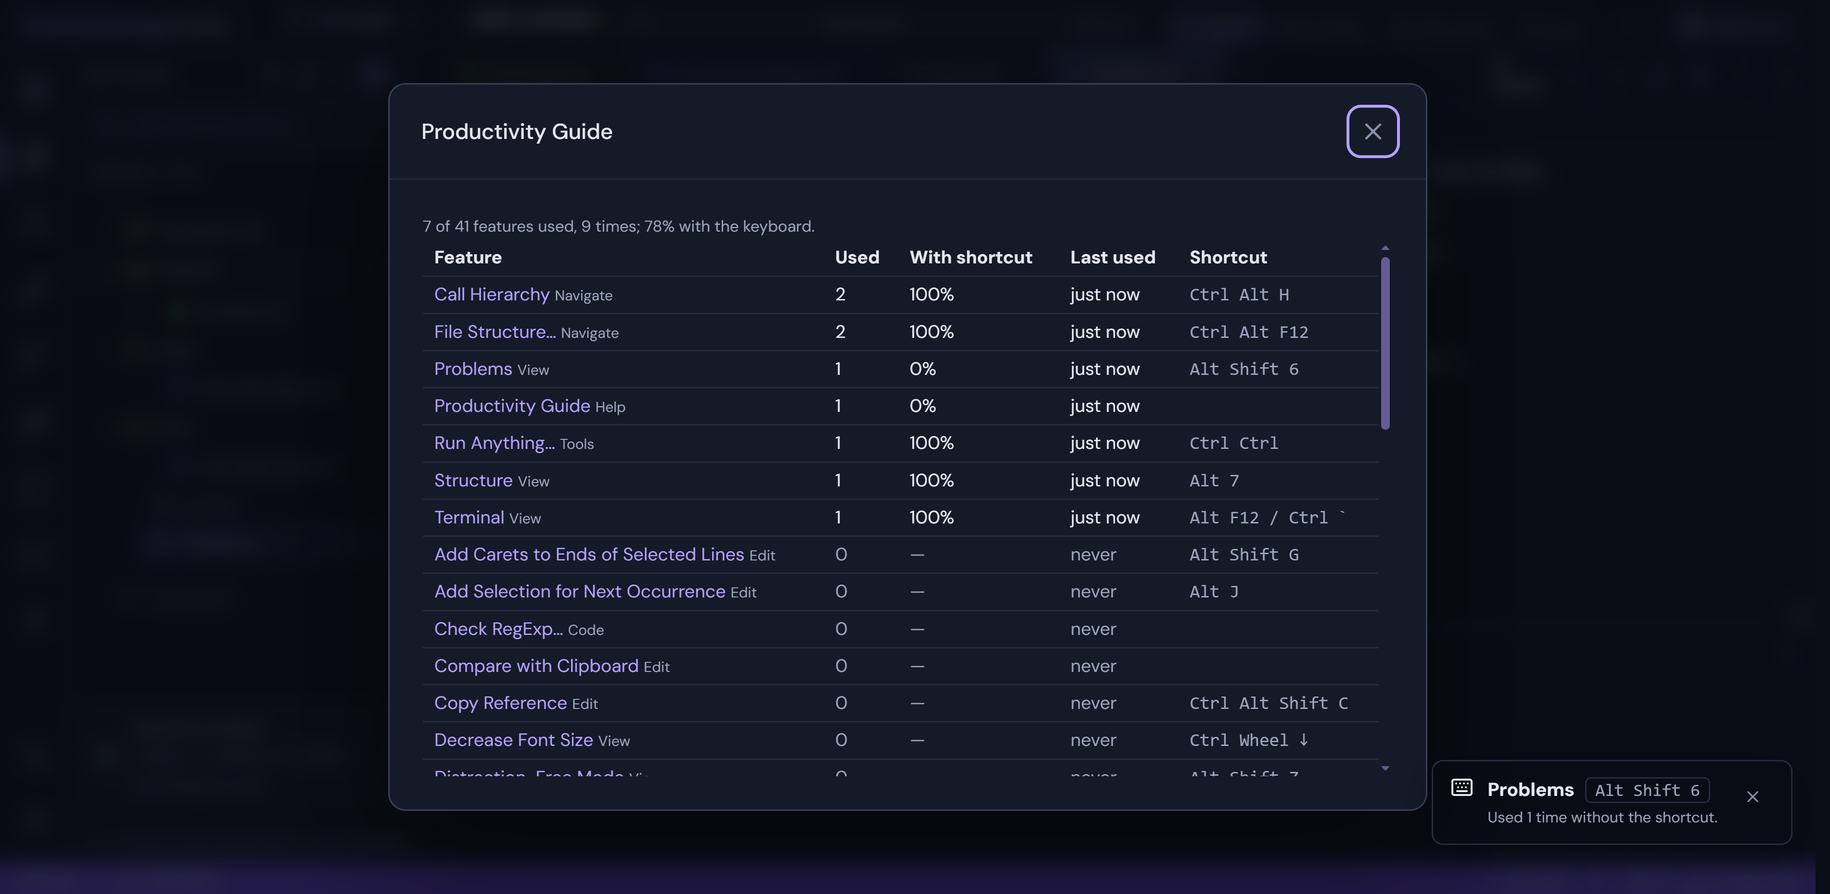
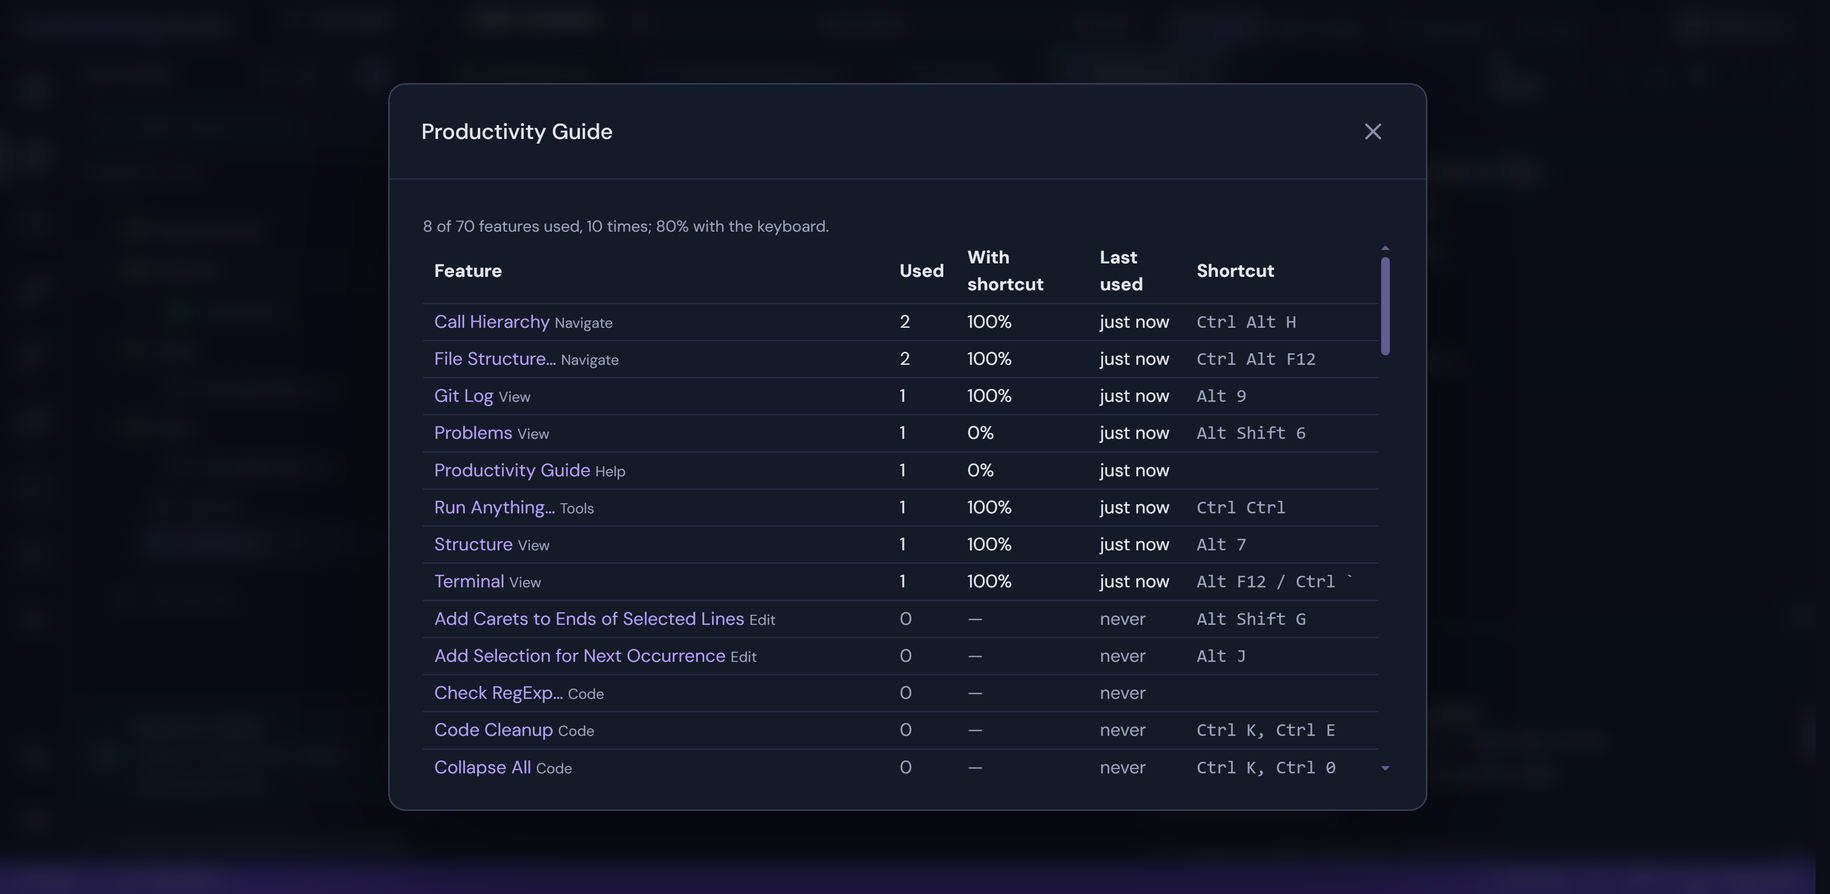
docs: add 60 desktop QoL proposals and refresh Electron screenshots

diff --git a/DESKTOP-QOL.md b/DESKTOP-QOL.md
@@ -1,0 +1,154 @@
+# Desktop quality-of-life improvement backlog
+
+Reviewed 2026-10-18 against source revision `f61994c`. These **60 proposals are not implemented by this document**. Priorities are recommendations: P1 protects work or removes recurring friction; P2 improves everyday workflows; P3 is optional polish. Each row defines a user outcome and a checkable completion condition. Source references identify the implementation area, not proof that every proposed interaction has been exhaustively tested.
+
+## How the app works
+
+The Windows Electron shell serves the shared React studio and runs its Express API inside the main process. The preload exposes a restricted desktop bridge. Self-contained Roslyn helpers provide scanning and language services; netcoredbg provides debugging. Running a user's tests still requires a compatible .NET SDK. Workspace settings and desktop state live in the OS user-data directory.
+
+The shell owns native menus, windows, tray integration, recent repositories, notifications, deep links, browser installation and diagnostics. Authoring, test discovery, recording, Spy, Git and terminal panels are shared with the web app. Shared UI improvements should therefore remain available in both hosts; Windows integration belongs in the desktop shell.
+
+Already present: persisted window bounds and zoom, recent/pinned repositories, last-page restoration, auto-rescan, background notifications and Do Not Disturb, startup retry, crash dialogs, settings import/export, autosave and recovery drafts, test playlists and Run Failed, terminal tabs, and extensive Rider-style navigation. This backlog extends these capabilities rather than treating them as missing. See [the existing desktop plan](test-authoring-desktop/PLAN.md), [completed workflow work](QOL-PROGRESS.md) and [Rider features](RIDER.md).
+
+## 1. Startup and prerequisites
+
+Source: [startup](test-authoring-desktop/src/main/main.ts), [browser installation](test-authoring-desktop/src/main/browsers.ts), [diagnostics](test-authoring-desktop/src/main/diagnostics.ts).
+
+| ID | Priority | Improvement and user benefit | Acceptance criterion |
+| --- | --- | --- | --- |
+| DQ01 | P1 | Add a prerequisite checklist before the first test run: distinguish bundled scanning tools from the SDK required to execute tests. | A machine without an SDK can index a repository; Run explains the missing SDK with a recheck action before starting a doomed run. |
+| DQ02 | P2 | Show elapsed time and the active project during startup/indexing, extending the existing stage labels. | A long scan displays its current stage and elapsed time without inventing a percentage. |
+| DQ03 | P1 | Offer a recovery launch that skips reopening the last workspace. | A broken or unavailable saved repository can be bypassed to reach the Start Window without editing configuration files. |
+| DQ04 | P2 | Give Chromium installation an in-app progress panel with cancellation and retry. | Users can inspect download output, cancel the child process and retry from the same panel. |
+| DQ05 | P2 | Show the expected browser version, cache location and usable installation state. | A missing executable is distinguished from a usable install, and the displayed cache folder can be opened. |
+| DQ06 | P2 | Explain startup failures with a concise diagnosis and expandable technical details. | Port, permission and missing-resource failures each offer a relevant next action while retaining Copy details and Open log. |
+
+## 2. Workspace switching and recents
+
+Source: [workspace handling](test-authoring-desktop/src/main/workspace.ts), [desktop store](test-authoring-desktop/src/main/store.ts), [Start Window](test-authoring-studio/src/StartWindow.tsx).
+
+| ID | Priority | Improvement and user benefit | Acceptance criterion |
+| --- | --- | --- | --- |
+| DQ07 | P1 | Unify the Start Window and native menu recent lists. | Opening, pinning or removing a solution in one surface immediately updates the other after restart as well. |
+| DQ08 | P2 | Keep unavailable recent locations visible with Locate and Remove actions. | A disconnected drive does not silently hide its entry; locating a moved repository updates that entry. |
+| DQ09 | P2 | Add optional workspace nicknames and show the full path on demand. | Two repositories with the same folder name can be distinguished in recents and the title. |
+| DQ10 | P1 | Offer Save All, Keep Drafts and Cancel before switching repositories. | Switching with dirty buffers preserves them or saves them successfully before changing the active workspace. |
+| DQ11 | P2 | Make multi-window workspace sharing explicit. | A second window identifies the shared workspace, and a repository switch updates all window titles and content consistently. |
+| DQ12 | P2 | Scope restored pages to the selected solution as well as its directory. | Two solution files in one directory each restore their own last page. |
+
+## 3. Drafts and safe recovery
+
+Source: [autosave and draft keys](test-authoring-studio/src/editor/autosave.ts), [window lifecycle](test-authoring-desktop/src/main/main.ts), [settings reset and restart](test-authoring-desktop/src/main/settingsIO.ts).
+
+| ID | Priority | Improvement and user benefit | Acceptance criterion |
+| --- | --- | --- | --- |
+| DQ13 | P1 | Include workspace identity in draft and session-edit keys, which currently use the file string. | Editing the same relative file path in two repositories never offers the other repository's draft. |
+| DQ14 | P1 | Add a recovery inbox listing all retained drafts. | After a crash, users can preview, restore, export or discard each draft without reopening files one by one. |
+| DQ15 | P1 | Make draft-storage failures visible. | Simulated full or blocked storage produces a persistent recovery warning and an Export buffer action instead of silently losing the safety copy. |
+| DQ16 | P1 | Provide a three-way merge for external save conflicts. | Users can compare the loaded base, disk version and current buffer, resolve changes and save using the latest disk hash. |
+| DQ17 | P1 | Route Restart through the same save and active-task checks as normal quit. | Restart from settings cannot bypass a dirty-buffer decision or abandon a recording without a clear choice. |
+| DQ18 | P1 | Offer draft export before clearing web data. | The clear-data dialog shows the number of affected drafts and lets users export them before confirming removal. |
+
+## 4. Settings that are easier to move and trust
+
+Source: [settings import/export](test-authoring-desktop/src/main/settingsIO.ts), [JSON store](test-authoring-desktop/src/main/store.ts), [native preferences menu](test-authoring-desktop/src/main/menu.ts).
+
+| ID | Priority | Improvement and user benefit | Acceptance criterion |
+| --- | --- | --- | --- |
+| DQ19 | P1 | Validate imported setting types and format versions before applying them. | Unsupported versions and invalid values produce readable field errors and leave the current settings intact. |
+| DQ20 | P2 | Preview an import and choose desktop, studio and workspace sections separately. | Users can import appearance preferences without replacing their current repository configuration. |
+| DQ21 | P1 | Back up settings before import/reset and offer one-step restoration. | A failed or regretted import can restore the previous valid configuration after restart. |
+| DQ22 | P1 | Save desktop state atomically with a last-known-good fallback. | An interrupted write does not turn a valid preferences file into an empty configuration on the next launch. |
+| DQ23 | P2 | Offer a portable export that omits machine-specific paths and recents. | The export preview names the omitted fields and can be used on another computer without referencing the original user's folders. |
+| DQ24 | P2 | Add searchable desktop preferences with restart-required badges. | Searching for hardware acceleration, tray or notifications reveals the setting and whether its change has taken effect. |
+
+## 5. Background work and notifications
+
+Source: [status polling](test-authoring-desktop/src/main/status.ts), [notifications](test-authoring-desktop/src/main/notify.ts), [browser install notifications](test-authoring-desktop/src/main/browsers.ts), [watcher](test-authoring-desktop/src/main/watcher.ts).
+
+| ID | Priority | Improvement and user benefit | Acceptance criterion |
+| --- | --- | --- | --- |
+| DQ25 | P2 | Add an in-app notification history for messages missed while away. | Completion and failure messages remain reviewable with timestamps and their original destination. |
+| DQ26 | P2 | Support notification preferences by event type and temporary snooze. | Users can suppress successful runs for an hour while retaining failure notifications, then automatically restore their preferences. |
+| DQ27 | P1 | Route browser-install notifications through the shared Do Not Disturb policy. | Installing Chromium with Do Not Disturb enabled creates no OS notification but retains an in-app result. |
+| DQ28 | P2 | Link test completion notifications directly to the corresponding run. | Clicking an older notification opens that run's results rather than merely focusing whichever page is active. |
+| DQ29 | P1 | Bound status requests and prevent overlapping polling. | An unresponsive API creates one offline transition and no accumulating requests; recovery clears the stale state. |
+| DQ30 | P2 | Coordinate taskbar progress across simultaneous work. | A browser download finishing does not erase the progress of an ongoing scan or test run; the selected task is named in-app. |
+
+## 6. Indexing and resource use
+
+Source: [repository watcher](test-authoring-desktop/src/main/watcher.ts), [startup/workspace scan](test-authoring-desktop/src/main/workspace.ts), [diagnostics](test-authoring-desktop/src/main/diagnostics.ts).
+
+| ID | Priority | Improvement and user benefit | Acceptance criterion |
+| --- | --- | --- | --- |
+| DQ31 | P1 | Show when automatic watching fails and offer manual refresh or retry. | A watcher error leaves a visible stale-index indicator with an actionable recovery control. |
+| DQ32 | P2 | Allow workspace-specific watcher exclusions. | A generated source folder can be excluded without disabling changes from the rest of the repository. |
+| DQ33 | P1 | Cancel pending rescan timers when changing workspace or stopping the watcher. | An event from repository A cannot trigger a delayed refresh after repository B becomes active. |
+| DQ34 | P2 | Detect solution and build-configuration changes beyond the current four watched extensions. | Editing a `.slnx`, `.props` or `.targets` file schedules the appropriate project refresh once. |
+| DQ35 | P2 | Expose a pause-and-resume indexing control with accumulated-change status. | Bulk generation can pause rescans, show that changes are pending and perform one refresh on resume. |
+| DQ36 | P2 | Calculate diagnostic folder sizes asynchronously and cache the result. | Opening System Information remains responsive with a large traces folder and labels an incomplete size calculation. |
+
+## 7. Windows, navigation and external tools
+
+Source: [window bounds](test-authoring-desktop/src/main/windowState.ts), [windows](test-authoring-desktop/src/main/main.ts), [deep links](test-authoring-desktop/src/main/protocol.ts), [external tools](test-authoring-desktop/src/main/tools.ts).
+
+| ID | Priority | Improvement and user benefit | Acceptance criterion |
+| --- | --- | --- | --- |
+| DQ37 | P2 | Clamp restored window size as well as position to the current display. | Moving from a large monitor to a smaller one keeps the title bar and resize controls reachable. |
+| DQ38 | P2 | Restore secondary-window layout independently. | Closing and reopening a two-window session restores both bounds and pages without overwriting the primary window state. |
+| DQ39 | P2 | Extend copy-link navigation to a repository, file and line. | Opening a copied link selects the intended workspace/file/line, with a useful message when the local path is unavailable. |
+| DQ40 | P1 | Queue cold-start links until the renderer is ready instead of relying on an 800 ms delay. | A slow startup still opens the requested destination exactly once. |
+| DQ41 | P2 | Report invalid deep links and include newer destinations such as Spy. | Copying a supported current page yields a round-trippable link; malformed links show an explanation without crashing. |
+| DQ42 | P2 | Detect external editors and let users browse to their executable. | A missing preferred editor produces a clear fallback notice; a configured executable works even when it is absent from PATH. |
+
+## 8. Testing and debugging workflow
+
+Source: [Test Explorer](test-authoring-studio/src/testing/TestExplorer.tsx), [test state](test-authoring-studio/src/testing/store.ts), [debug panel](test-authoring-studio/src/debug/DebugPanel.tsx).
+
+Existing discovery, outcome icons, durations, cancellation, playlists and Run Failed form the baseline here. These proposals add context and persistence around them.
+
+| ID | Priority | Improvement and user benefit | Acceptance criterion |
+| --- | --- | --- | --- |
+| DQ43 | P2 | Add a persistent run timeline with repository and revision labels. | Relaunching retains recent run summaries and makes results from an older revision distinguishable. |
+| DQ44 | P2 | Compare two runs to highlight new failures, recovered tests and duration changes. | Selecting two recorded runs produces a per-test comparison, including added and removed tests. |
+| DQ45 | P2 | Save named run profiles for project, filter, environment and run settings. | A profile can be selected and reviewed before execution without re-entering its options. |
+| DQ46 | P2 | Explain discovery failures beside the empty test tree. | A failed discovery shows the relevant command/error and Retry; a successful discovery with no tests has different guidance. |
+| DQ47 | P2 | Show why a breakpoint is unbound and provide the relevant recovery action. | Missing symbols, a stale build and a line without executable code are distinguishable when the debugger supplies that information. |
+| DQ48 | P2 | Bundle a selected test's diagnostic artifacts for handoff. | Users can preview and export its output, stack trace and available trace attachments without searching several folders. |
+
+## 9. Recording and Spy
+
+Source: [recorder UI](test-authoring-studio/src/GeneratorRecorder.tsx), [Spy UI](test-authoring-studio/src/SpyView.tsx), [existing recorder improvements](QOL-PROGRESS.md).
+
+Recording already matches steps and previews feature/dictionary generation; Spy already offers element inspection, selector verification and snapshots. Preserve those review steps while extending the workflow.
+
+| ID | Priority | Improvement and user benefit | Acceptance criterion |
+| --- | --- | --- | --- |
+| DQ49 | P1 | Recover an interrupted recording as a draft action list. | After restarting the app, previously captured actions can be reviewed and saved without pretending the old browser session is still connected. |
+| DQ50 | P2 | Add named recording profiles for starting URL, viewport and browser options. | Starting a new recording from a profile shows the effective configuration and permits a one-time override. |
+| DQ51 | P2 | Explain low-confidence step matches and allow per-action alternatives. | Each unresolved action shows candidate scores/reasons and its selected binding before generation is approved. |
+| DQ52 | P1 | Add a final sensitive-value review before saving generated recording artifacts. | Users can replace detected sensitive literals with environment references and verify the final diff contains no replaced value. |
+| DQ53 | P2 | Distinguish selector uniqueness from long-term robustness. | Spy explains brittle attributes or positional selectors even when the current match count is one. |
+| DQ54 | P2 | Compare two Spy snapshots to investigate selector drift. | A comparison identifies changed attributes and missing elements and clearly labels results as offline observations. |
+
+## 10. Terminal, support and distribution
+
+Source: [terminal](test-authoring-studio/src/rider/TerminalPanel.tsx), [diagnostics](test-authoring-desktop/src/main/diagnostics.ts), [logs/settings](test-authoring-desktop/src/main/settingsIO.ts), [packaging](test-authoring-desktop/package.json), [documented limits](test-authoring-desktop/README.md#limits).
+
+| ID | Priority | Improvement and user benefit | Acceptance criterion |
+| --- | --- | --- | --- |
+| DQ55 | P2 | Persist an opt-in, workspace-scoped terminal command history. | Restarting preserves approved history, includes Clear history, and avoids storing commands the user marks private. |
+| DQ56 | P2 | Add terminal output search with next/previous match navigation. | Users can find an error in retained output, see the match count and clear the search without changing the running command. |
+| DQ57 | P1 | Warn before closing a terminal tab with a running command. | Users can keep the tab or explicitly stop the process; closing cannot silently orphan the operation. |
+| DQ58 | P2 | Add a support-bundle preview with path redaction. | Users choose logs and environment details, inspect the exact export and remove personal paths before sharing it. |
+| DQ59 | P2 | Rotate logs during long-running sessions and expose retention controls. | A session exceeding the configured log limit stays bounded without needing an app restart; users can open retained logs. |
+| DQ60 | P3 | Provide an opt-in update check with release notes and a verified installer path. | Users see installed/available versions, can defer a release, and receive a clear verification failure rather than running an unverified installer. |
+
+## Suggested delivery order
+
+1. Protect work: DQ10, DQ13–19, DQ21–22 and DQ49. Establish recovery behavior before adding more persistence.
+2. Make background behavior dependable: DQ27, DQ29, DQ31, DQ33 and DQ40. Exercise workspace switching, API outages and slow startup.
+3. Reduce daily friction: DQ01, DQ07–09, DQ24, DQ28, DQ39 and DQ42, then the testing/recording improvements.
+4. Add optional polish and distribution conveniences after the underlying flows are stable.
+
+For each implemented item, test its acceptance criterion in the packaged Windows app. Test shared UI changes in the web host too. Recovery work needs interruption/conflict tests; navigation work needs slow-start and multi-window checks. Update this backlog's status only when implementation and verification are complete.

diff --git a/README.md b/README.md
@@ -10,6 +10,9 @@ It ships as a **Windows desktop app** (`test-authoring-desktop/`, Electron) and 
 
 ## Screenshots
 
+Captured from the Windows Electron desktop build on **2026-10-18**, using a temporary copy of the Calculator
+sample. These are running-app captures, not mockups; image dimensions follow the Windows display scaling.
+
 **Feature editor and Solution Explorer.** Open a `.sln` / `.slnx` / `.csproj`; projects, dependencies and files
 appear as in Visual Studio.
 
@@ -84,10 +87,15 @@ the Terminal.
 **Git Log.** Alt+9 lists every branch's commits with the graph. Select a commit to see its message, changed files and
 patch. Show History for Selection and Compare with Branch also come from Git.
 
+![Git Log with branch history and selected commit patch](docs/screenshots/rider-git-log.png)
+
 **Productivity Guide.** Shows which features you use, how often, and how often with the shortcut. The Key Promoter
 shows a feature's shortcut when you use the feature from a menu.
 
 ![Productivity Guide](docs/screenshots/rider-productivity-guide.png)
+
+The proposed [desktop quality-of-life backlog](DESKTOP-QOL.md) contains **60 improvements**, with priorities,
+source references and acceptance criteria. These are future proposals, separate from the implemented features above.
 
 ## Highlights
 
@@ -143,7 +151,11 @@ The .NET helpers need the .NET 10 SDK. The repository can use a local SDK in `.t
 
 To refresh the screenshots after building the desktop app:
 
-```bash
+```powershell
 cd test-authoring-desktop
-TAS_SCREENSHOTS=1 TAS_EXE="release/win-unpacked/TestAuthoring Studio.exe" npx playwright test screenshots
+npm run dist
+$env:TAS_SCREENSHOTS = '1'
+$env:TAS_EXE = 'release/win-unpacked/TestAuthoring Studio.exe'
+npx playwright test screenshots
+Remove-Item Env:TAS_SCREENSHOTS, Env:TAS_EXE
 ```

diff --git a/test-authoring-desktop/README.md b/test-authoring-desktop/README.md
@@ -12,6 +12,33 @@ The Electron (TypeScript) desktop version of [TestAuthoring Studio](../test-auth
 
 The studio has three small host hooks: `STUDIO_ROOT` (resources), `STUDIO_DATA` (writable state) and `STUDIO_SCANNER_EXE` (self-contained scanner). It also has `src/desktop.ts`, which lights up native features when `window.desktop` exists and does nothing in a browser.
 
+## Desktop screenshots
+
+Fresh captures of the packaged Windows app, taken on **2026-10-18** with the Calculator sample.
+
+**Feature authoring and Solution Explorer**
+
+![Desktop feature editor and Solution Explorer](../docs/screenshots/feature-editor.png)
+
+**C# navigation and editing**
+
+![Desktop C# editor](../docs/screenshots/csharp-editor.png)
+
+**Test discovery and run results**
+
+![Desktop Test Explorer](../docs/screenshots/test-explorer.png)
+
+**Debugging a Gherkin scenario**
+
+![Desktop debugger paused on a feature breakpoint](../docs/screenshots/debugger.png)
+
+**Git history and commit review**
+
+![Desktop Git Log and commit patch](../docs/screenshots/rider-git-log.png)
+
+See the [full screenshot gallery and capture instructions](../README.md#screenshots) and the
+[60 proposed quality-of-life improvements](../DESKTOP-QOL.md), with priorities and acceptance criteria.
+
 ## Requirements
 
 - Node.js 24+.

diff --git a/test-authoring-studio/PLAN.md b/test-authoring-studio/PLAN.md
@@ -273,3 +273,7 @@ Reference: Visual Studio debugger (breakpoints, Step Into/Over/Out, Locals, Watc
 - [x] R7–R43 37 Rider features (J1–J37 in `../RIDER.md`): command registry (`src/rider/commands.ts`) shown in the web menu bar (Edit, View, Navigate, Code, Tools, Help), the palette and the desktop's native menus; editor keys in `src/editor/riderKeys.ts`; tool windows (Structure, Hierarchy, Problems, Terminal, Shelf) as tabs of the bottom panel
 - [x] Language server ops `symbolId`, `typeHierarchy`, `callers`, `solutionDiagnostics`; server: `/api/problems`, `/api/terminal/*`, `/api/http/send`, `/api/steps/regex`, `/api/related`, `/api/history/recent`, `/api/git/shelves|shelve|unshelve|shelf/delete`
 - [x] Bug: editors could only save `.cs` / `.feature` / `.xml` (now any text file: `.csproj`, `.json`, `.md`, `.http`, scripts…); the source reader and the Explorer skipped `.http` and script files
+
+## Desktop documentation review (2026-10-18)
+- [x] Review shared UI workflows for the 60-item proposal backlog in `../DESKTOP-QOL.md`; no product behavior changes in this documentation update.
+- [x] Refresh the root README with screenshots from the rebuilt Electron host and link the desktop improvement backlog.

diff --git a/test-authoring-desktop/PLAN.md b/test-authoring-desktop/PLAN.md
@@ -189,3 +189,9 @@ Legend: `[x]` done · `[ ]` to do. Every feature is committed and pushed when fi
 - [x] R1 Native Navigate, Code and Tools menus plus Rider items in Edit, View and Help (`src/main/riderMenu.ts`); each sends `rider` with the command id, the page handles the keys
 - [x] R2 Ctrl+Shift+V is Paste from History (Paste as Plain Text keeps its Edit menu item without the key)
 - [x] R3 Terminal runs PowerShell over pipes (no native pty), so the packaged app needs nothing extra; packaged test runs a command in it
+
+## Desktop documentation review (2026-10-18)
+- [x] Audit the Electron shell and shared authoring workflows; document 60 proposed improvements with priorities, source references and acceptance criteria in `../DESKTOP-QOL.md` (proposals only).
+- [x] Refresh all 16 packaged-desktop screenshots, add Git Log to the root gallery, and add a screenshot gallery to the desktop README.
+- [x] Rebuild the Windows distribution; both screenshot capture scenarios pass; inspect the captures and verify local documentation links.
+- [x] Packaged verification outside the repository: 30 passed; 2 opt-in screenshot scenarios skipped in that run (both passed separately).
